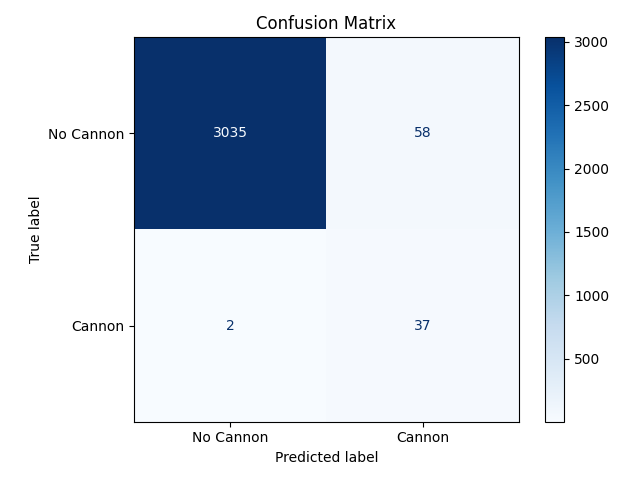
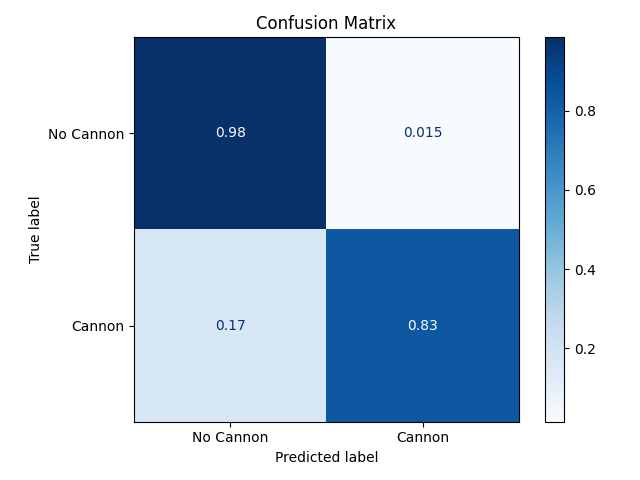
reducing chunk time and printing out avg time

diff --git a/test_script.py b/test_script.py
@@ -3,17 +3,18 @@ import librosa
 import numpy as np
 import csv
 import pandas as pd
-from sklearn.metrics import precision_score, recall_score, f1_score, classification_report, confusion_matrix, ConfusionMatrixDisplay
+from sklearn.metrics import classification_report, confusion_matrix, ConfusionMatrixDisplay
 import matplotlib.pyplot as plt
+import time
 
 # Config
 AUDIO_FOLDER = "recordings"
 GROUND_TRUTH_FILE = "positives.csv"
 OUTPUT_FILE = "detections.csv"
 SAMPLERATE = 44100
-CHUNK_DURATION = 0.5  # seconds
+CHUNK_DURATION = 0.1  # seconds
 THRESHOLD = 20
-MATCH_TOLERANCE = 0  # seconds to consider a true match
+MATCH_TOLERANCE = 0.5  # seconds to consider a true match
 LOW_FREQ_BAND = [0, 80]
 
 CLIP_THRESHOLD = 0.99  # threshold for float audio
@@ -42,7 +43,11 @@ def process_file(file_path):
     chunk_size = int(CHUNK_DURATION * sr)
     detections = []
 
+    start_time = time.time()
+    iteration_times = []
+
     for i in range(0, len(y), chunk_size):
+        iteration_start = time.time()
         chunk = y[i:i+chunk_size]
         if len(chunk) < chunk_size:
             break
@@ -51,6 +56,11 @@ def process_file(file_path):
         # if detect_clipping(chunk):
             timestamp = round(i / sr, 2)
             detections.append(timestamp)
+
+        iteration_times.append(time.time() - iteration_start)
+
+    average_time = sum(iteration_times) / len(iteration_times) if iteration_times else 0
+    print(f"⏱ Average time per iteration: {average_time:.5f} seconds")
 
     return detections
 
@@ -85,7 +95,7 @@ tp = fp = fn = 0
 all_detections = []
 
 for fname, detected in results.items():
-    detected = list(set(detected))  # Remove duplicates
+    # detected = set(detected))  # Remove duplicates
     truth = gt[gt["file_name"] == fname]["seconds"].tolist()
     truth_matched = [False] * len(truth)
 
@@ -151,9 +161,9 @@ print(classification_report(y_true, y_pred, target_names=["No Cannon", "Cannon"]
 
 # === Confusion Matrix ===
 
-cm = confusion_matrix(y_true, y_pred)
+cm = confusion_matrix(y_true, y_pred, normalize='true')
 disp = ConfusionMatrixDisplay(confusion_matrix=cm, display_labels=["No Cannon", "Cannon"])
-disp.plot(cmap='Blues', values_format='d')
+disp.plot(cmap='Blues')
 plt.title("Confusion Matrix")
 plt.tight_layout()
 plt.savefig("confusion_matrix.png")
